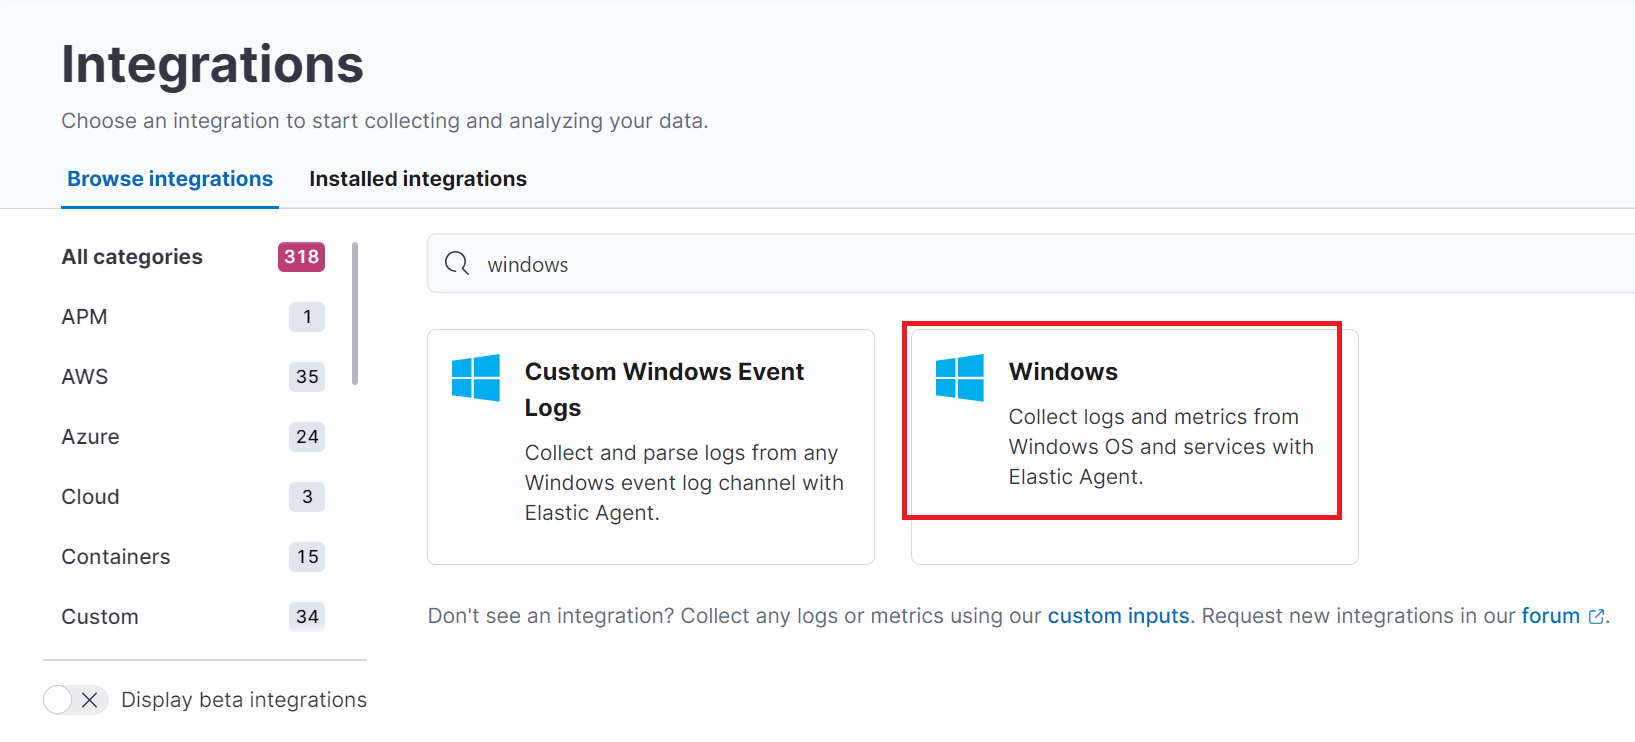
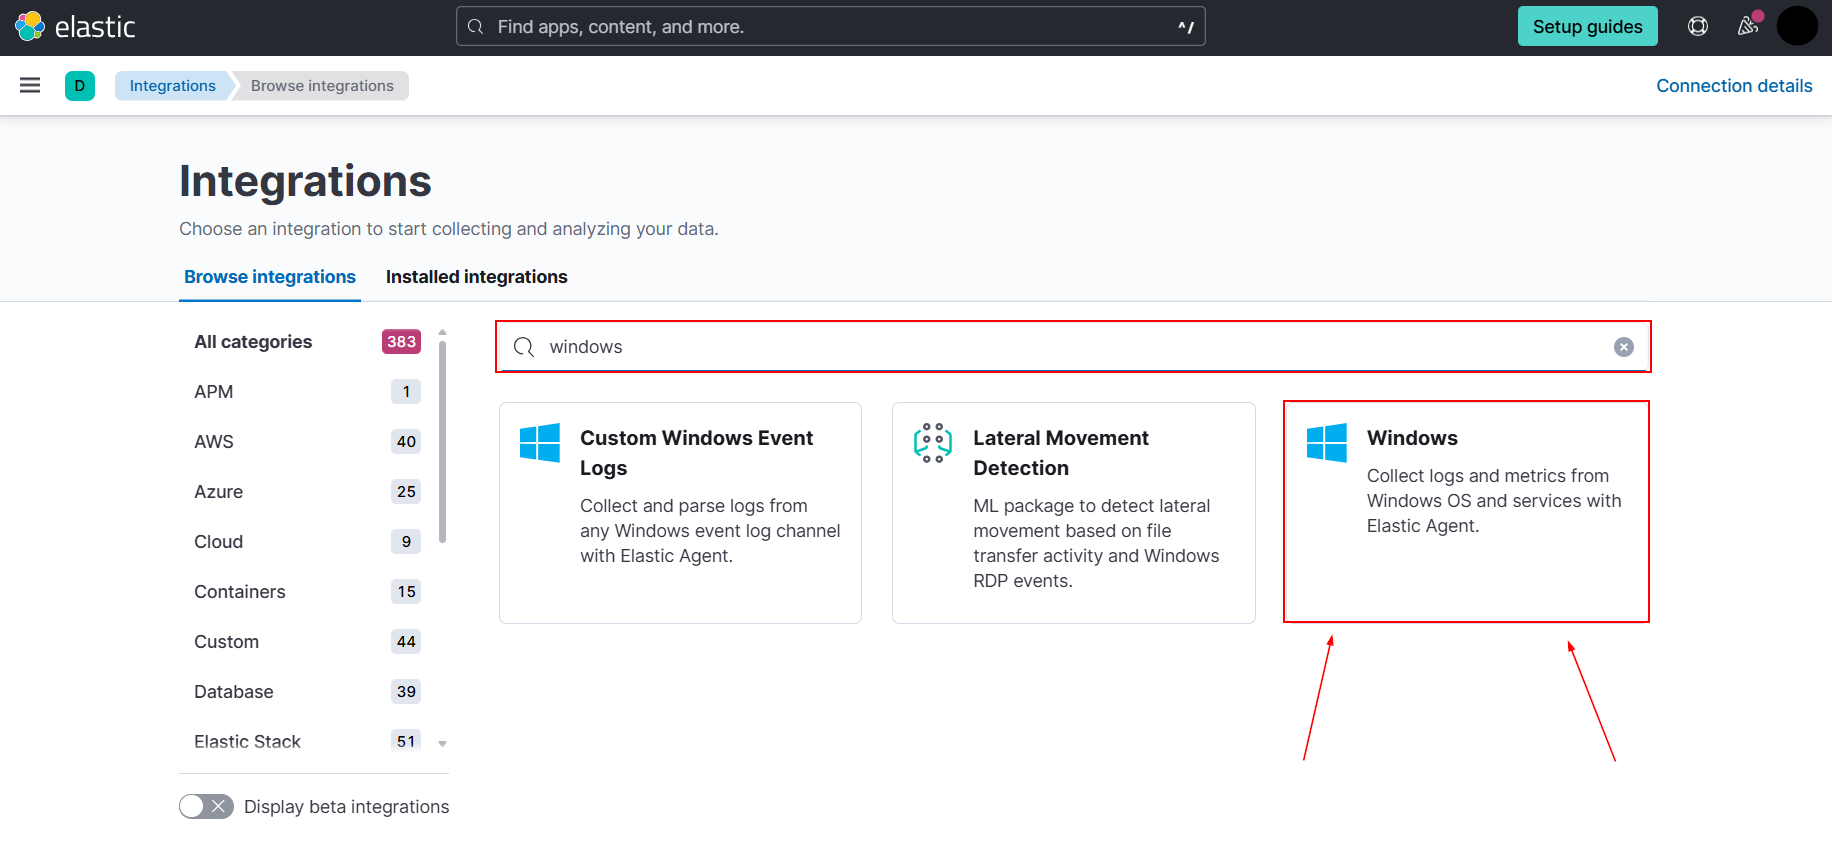
All sysmon logs screenshots updated

diff --git a/IntroClassFiles/Tools/IntroClass/md/sysmon_logs.md b/IntroClassFiles/Tools/IntroClass/md/sysmon_logs.md
@@ -22,32 +22,41 @@ Find the "Download Sysmon" link.
 ![Download Sysmon](./images/sysmon_download.png)
 
 
-In [part one](./elk_in_the_cloud.md "Elk in the Cloud"), we reviewed several ways to find our download.  Repeat these steps to find find the Sysmon download in the Downloads folder.
+Next, we need to extract the .zip archive that we just downloaded. To do so, start by opening your file explorer.
 
+![](./images/OpeningFileExplorer.png)
 
-Perform "Extract All" on the Sysmon Folder. Ensure the Sysmon folder is selected -- It will be highlighted blue.
+Then navigate to `Downloads` in the side panel, and click on the Sysmon `.zip` archive.
+
+![](./images/navigatetodownloads.png)
+
+Now we can perform "Extract All" on the Sysmon Folder. 
+
+Ensure the Sysmon .zip archive is selected -- It will be highlighted blue.
 
 ![Sysmon Extract All](./images/sysmon_extract_all.png)
 
 "Extract" to the Downloads folder.  Windows should auto-populate the Downloads path.
 
-In your search bar, type "PowerShell."
-The following options will be presented.  Click "Run as Administrator."
+Once you are finished, you should see something like this:
 
-<img src="./images/powershell.png" alt="Run as Administrator" style="zoom:67%;" />
+![](./images/sysmonfolder.png)
+
+For the next step, we need to open Windows PowerShell. This can be done by clicking on the PowerShell icon in the taskbar.
+
+![](./images/OpeningPowershell.png)
 
 In your PowerShell window, enter the following command. You will need to substitute [USER] for the user you are using on your local system.
 
-```powershell
+<pre>
 cd C:\Users\[USER]\Downloads\Sysmon\
-```
+</pre>
 
+Then, run the following command to install and start Sysmon as a service.
 
-The following command will install and start Sysmon as a service.
-
-```powershell
+<pre>
 .\Sysmon.exe -i -n -accepteula
-```
+</pre>
 
 
 Your following output should look similar to this.
@@ -56,49 +65,65 @@ Your following output should look similar to this.
 ![Sysmon is Running](./images/sysmon_running.png)
 
 
-Now that Sysmon is running on our system, we need to configure our Elastic agent to gather these logs.  Sign into your cloud account.
+Now that Sysmon is running on our system, we need to configure our Elastic agent to gather these logs.
 
+Sign into your Elastic Cloud account using the following link:
 
 [Elastic Cloud Login](https://cloud.elastic.co/login "https://cloud.elastic.co/login")
 
 
-Navigate to "Integrations" through the navigation menu.
+Once logged in, navigate to "Integrations" through the navigation menu.
 
+Note:
 
-![Integrations Tab](./images/integrations.PNG)
+When you log in to Elastic, you might see the following screen first. If so, go ahead and click on our deployment that we created in [Part One](./elk_in_the_cloud.md "Elk in the Cloud") (ELK in the Cloud)
 
+![](./images/incaseyourelost.png)
 
-At the top of the page enter "windows" into the search bar.  Select the Windows option with the red square pictured below.
+Once you do this, you can access the navigation bar by clicking the three lines in the upper left and then navigate to Integrations. 
 
+You may have to scroll to the bottom to find the Management section. 
+
+![](./images/navigationmenu.png)
+
+At the top of the page enter "windows" into the search bar.  Select the Windows option outlined with the red square below.
 
 ![Select Windows](./images/which_windows.PNG)
 
-
 Add this integration.
-
 
 ![Add Windows](./images/installation.PNG)
 
 
-By default, the Sysmon logs channel should be active.  This can be checked under the "Collect events from the following Windows event log channels:" section of the "Add integration" page.
+The next screen you see will have a lot of options on it. Luckily, we only care that one is selected: Sysmon Operational
+
+By default, this option should be active, but please double check to be sure. 
+
+Note:
+
+You will have to scroll down the page for a bit in order to find it. 
 
 
 ![Ensure Sysmon is Selected](./images/sysmon_selected.png)
 
 
-Save the Integration.
+Now save the Integration by clicking `Save and Continue` in the bottom right.
 
 
 ![Save the Integration](./images/saveandnext.PNG)
 
 
-When prompted click "Add elastic agent to your hosts".
+You will then see the following pop-up prompt. Please click "Add elastic agent to your hosts".
 
 
-![Save and Deploy Changes](./images/addelastichost.PNG)
+![Add Elastic Host](./images/addelastichost.PNG)
 
 
-In the Integrations menu, find the "Installed integrations" tab.
+Now, navigate back to the Integrations menu, find the "Installed integrations" tab.
+
+![](./images/backtointegrations.png)
+
+![](./images/clickinstalledintegrations.png)
 
 In [part one](./elk_in_the_cloud.md "Elk in the Cloud"), we selected an Elastic Security configuration. In doing so, "Endpoint Security" and "System" are automatically installed in our Integrations.
 
@@ -111,10 +136,15 @@ At this point, play around on the computer that has Elastic Agent installed.  Mo
 After you have created some log activity, navigate to "Discover" by accessing the hamburger menu on the top left.
 
 
-![Navigate to Discover](./images/filter.PNG)
+![Navigate to Discover](./images/navigatetodiscover.png)
 
+We will then create a filter:
 
-Set a filter on your data to limit your results to sysmon data.  This can be done by searching the "data_stream.dataset" field for "windows.sysmon_operational" data. Then click "add filter". Your filter should now be set.
+![](./images/createfilter.png)
+
+Set a filter on your data to limit your results to sysmon data.  This can be done by searching the "data_stream.dataset" field for "windows.sysmon_operational" data. We add a custom label of "All Done!" 
+
+Now click "add filter". Your filter should now be set.
 
 
 ![Filter Data](./images/applied_filter.PNG)
